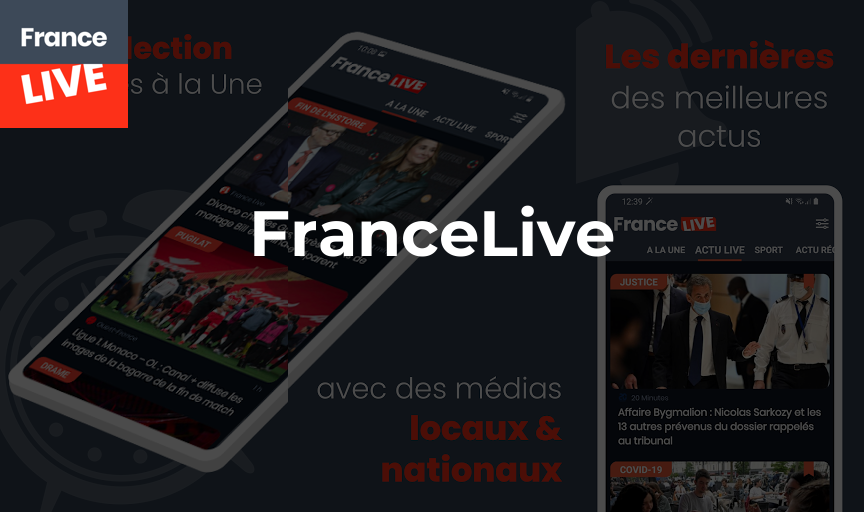
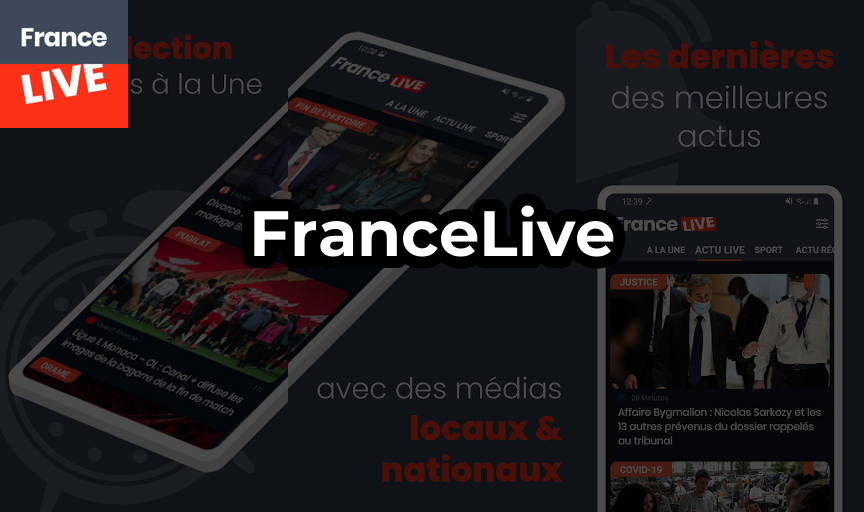
Add habit frogs

Changed region(s): [[0.2812, 0.4062, 0.5312, 0.5312], [0.6875, 0.4062, 0.7188, 0.5312], [0.3438, 0.4062, 0.4062, 0.4375]]

diff --git a/themes/freelancer/layouts/partials/projects.html b/themes/freelancer/layouts/partials/projects.html
@@ -15,15 +15,12 @@
 				{{ range $element }}
 				{{ $counter = add $counter 1 }}
 				<div class="portfolio-item mx-auto pb-4">
-					<img class="img-fluid" style="border-radius: 8px;" src="/{{.Page.Params.Hero}}" alt="..." />
-
-					<br>
-					<br>
-					<a href="{{ .Params.Playstore }}" target="_blank" rel="noopener noreferrer"> <img height="60"
-							src="/google-play-badge-nopad.png" /></a>
-					<br>
-					<br>
-					<div class="text-white" style="text-align: left;"> {{.Page.Params.Summary}} </div>
+					<a href="{{ .Params.Playstore }}" target="_blank" rel="noopener noreferrer"> <img class="img-fluid" style="border-radius: 8px;" src="/{{.Page.Params.Hero}}" alt="..." /></a>
+					<!-- <br>
+					<br> -->
+					<!-- <a href="{{ .Params.Playstore }}" target="_blank" rel="noopener noreferrer"> <img height="50"
+							src="/google-play-badge-nopad.png" /></a> -->
+					<!-- <div class="text-white mt-2 mb-4" style="text-align: left;"> {{.Page.Params.Summary}} </div> -->
 				</div>
 				{{ end }}
 			</div>

diff --git a/themes/freelancer/static/css/style.css b/themes/freelancer/static/css/style.css
@@ -12408,7 +12408,7 @@ html {
 }
 
 .portfolio .portfolio-item {
-  cursor: pointer;
+  /* cursor: pointer; */
   position: relative;
   display: block;
   max-width: 25rem;

diff --git a/static/scripts/createthumbnails.py b/static/scripts/createthumbnails.py
@@ -18,9 +18,9 @@ def getFromItchio(url):
 	link_url = []
 	data = soup.findAll('div',class_='screenshot_list')
 	for div in data:
-	    links = div.findAll('a')
-	    for a in links:
-	        link_url.append(a['href'])
+		links = div.findAll('a')
+		for a in links:
+			link_url.append(a['href'])
 
 	return { 'title': title, 'description': description, 'screenshots': link_url}
 
@@ -57,8 +57,7 @@ def pasteIcon(icon, im):
 def text(img, message):
 	font = ImageFont.truetype("Montserrat-Bold.ttf", 64)
 	d = ImageDraw.Draw(img)
-
-	d.multiline_text((img.size[0]/2, img.size[1]/2), message, font=font, anchor="ms", fill="white")
+	d.multiline_text((img.size[0]/2, img.size[1]/2), message, font=font, anchor="ms", fill="white", stroke_width=12, stroke_fill="black")
 
 	return img
 
@@ -75,7 +74,10 @@ def miniature(package, lang, message, output = ''):
 	icon = Image.open(BytesIO(requests.get(result["icon"]).content))
 	screen1 = Image.open(BytesIO(requests.get(result["screenshots"][0]).content))
 	screen2 = Image.open(BytesIO(requests.get(result["screenshots"][1]).content))
-	screen3 = Image.open(BytesIO(requests.get(result["screenshots"][2]).content))
+	screen3 = screen2
+	
+	if(len(result["screenshots"]) > 2):
+		screen3 = Image.open(BytesIO(requests.get(result["screenshots"][2]).content))
 
 	# merge screens
 	full = merge(screen1, screen2, screen3)
@@ -135,23 +137,22 @@ def placeholder():
 placeholder()
 
 miniature('com.poly.france_actu', 'en', 'Actu France\npocket news', 'actufrance.png')
-miniature('com.poly.astrology', 'en', 'Astro\ndaily news', 'astro.png')
+miniature('com.poly.astrology', 'en', 'Astro\nTarot reading', 'astro.png')
 miniature('com.poly.market', 'fr', 'Bons plans\nEn vrac!', 'envrac.png')
+miniature('com.poly.habit', 'en', 'Habit Frogs!', 'habitfrogs.png')
 
 miniature('com.clanmo.europcar', 'fr', 'Europcar', 'europcar.png')
 miniature('fr.proximity.proximity', 'fr', 'MyProximity', 'myproximity.png')
 miniature('com.dupuis.webtoonfactory', 'fr', 'Webtoon\nFactory', 'webtoonfactory.png')
 miniature('com.francelive.france', 'fr', 'FranceLive', 'francelive.png')
-
 miniature('com.beemenergy.mybeem', 'fr', 'Beem Energy', 'beemenergy.png')
 miniature('com.backelite.vingtminutes', 'fr', '20minutes', 'vingtminutes.png')
-
 miniature('be.rtl.info', 'fr', 'RTL info', 'rtlinfo.png')
 miniature('be.appsolution.lesoir', 'fr', 'Le Soir', 'lesoir.png')
 miniature('fr.k_decole.mobile', 'fr', 'Skolengo', 'skolengo.png')
 
-miniatureFromIch('https://crucknuk.itch.io/yo-runner', "Yo!\nBox&Boxes", 'yorunner.png')
-miniatureFromIch('https://crucknuk.itch.io/blobi', "Blobitronica", 'blobitronica.png')
-miniatureFromIch('https://crucknuk.itch.io/deepteam', "DeepTeam", 'deepteam.png')
+#miniatureFromIch('https://crucknuk.itch.io/yo-runner', "Yo!\nBox&Boxes", 'yorunner.png')
+#miniatureFromIch('https://crucknuk.itch.io/blobi', "Blobitronica", 'blobitronica.png')
+#miniatureFromIch('https://crucknuk.itch.io/deepteam', "DeepTeam", 'deepteam.png')
 
 print("DONE")

diff --git a/content/projects/habitfrogs/index.md b/content/projects/habitfrogs/index.md
@@ -1,0 +1,12 @@
+---
+title: "Habitfrogs"
+date: 2023-02-24T11:54:40+01:00
+draft: false
+sidebar: false
+tags: []
+hero: "habitfrogs.png"
+summary: "A simple daily prediction app and tarot readings."
+summary: "Tarot readings card and collection. Provide a minimalist horoscope and motivations quotes."
+playstore: https://play.google.com/store/apps/details?id=com.poly.habit
+single: true
+---
